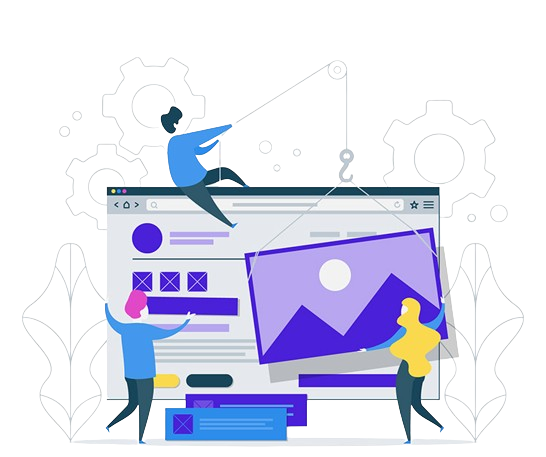
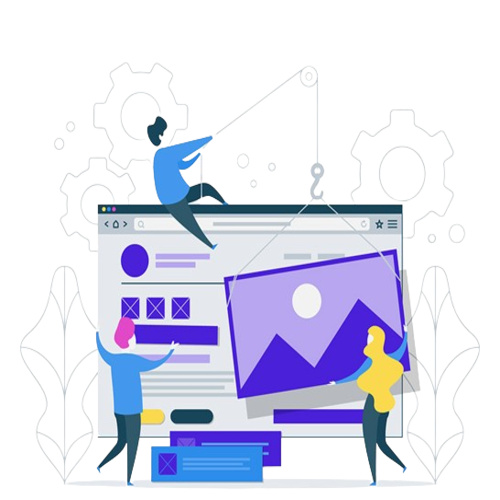
responsive hero area

diff --git a/public/assets/css/responsive.css b/public/assets/css/responsive.css
@@ -45,6 +45,10 @@
         height: auto;
     }
 
+    .slider_section .img-box img {
+        height: 400px;
+    }
+
     .slider_section {
         padding: 0 25px;
     }
@@ -157,6 +161,9 @@
 @media (max-width: 376px) {
     .slider_section .detail-box h1, .slider_section .detail-box h2 {
         font-size: 2rem;
+    }
+    .slider_section .img-box img {
+        height: 300px;
     }
 }
 

diff --git a/public/assets/css/style.css b/public/assets/css/style.css
@@ -182,7 +182,7 @@ a:focus {
 
 .slider_section .img-box img {
   width: 100%;
-  height: 75vh;
+  height: 500px;
 }
 
 .slider_section .detail-box {
